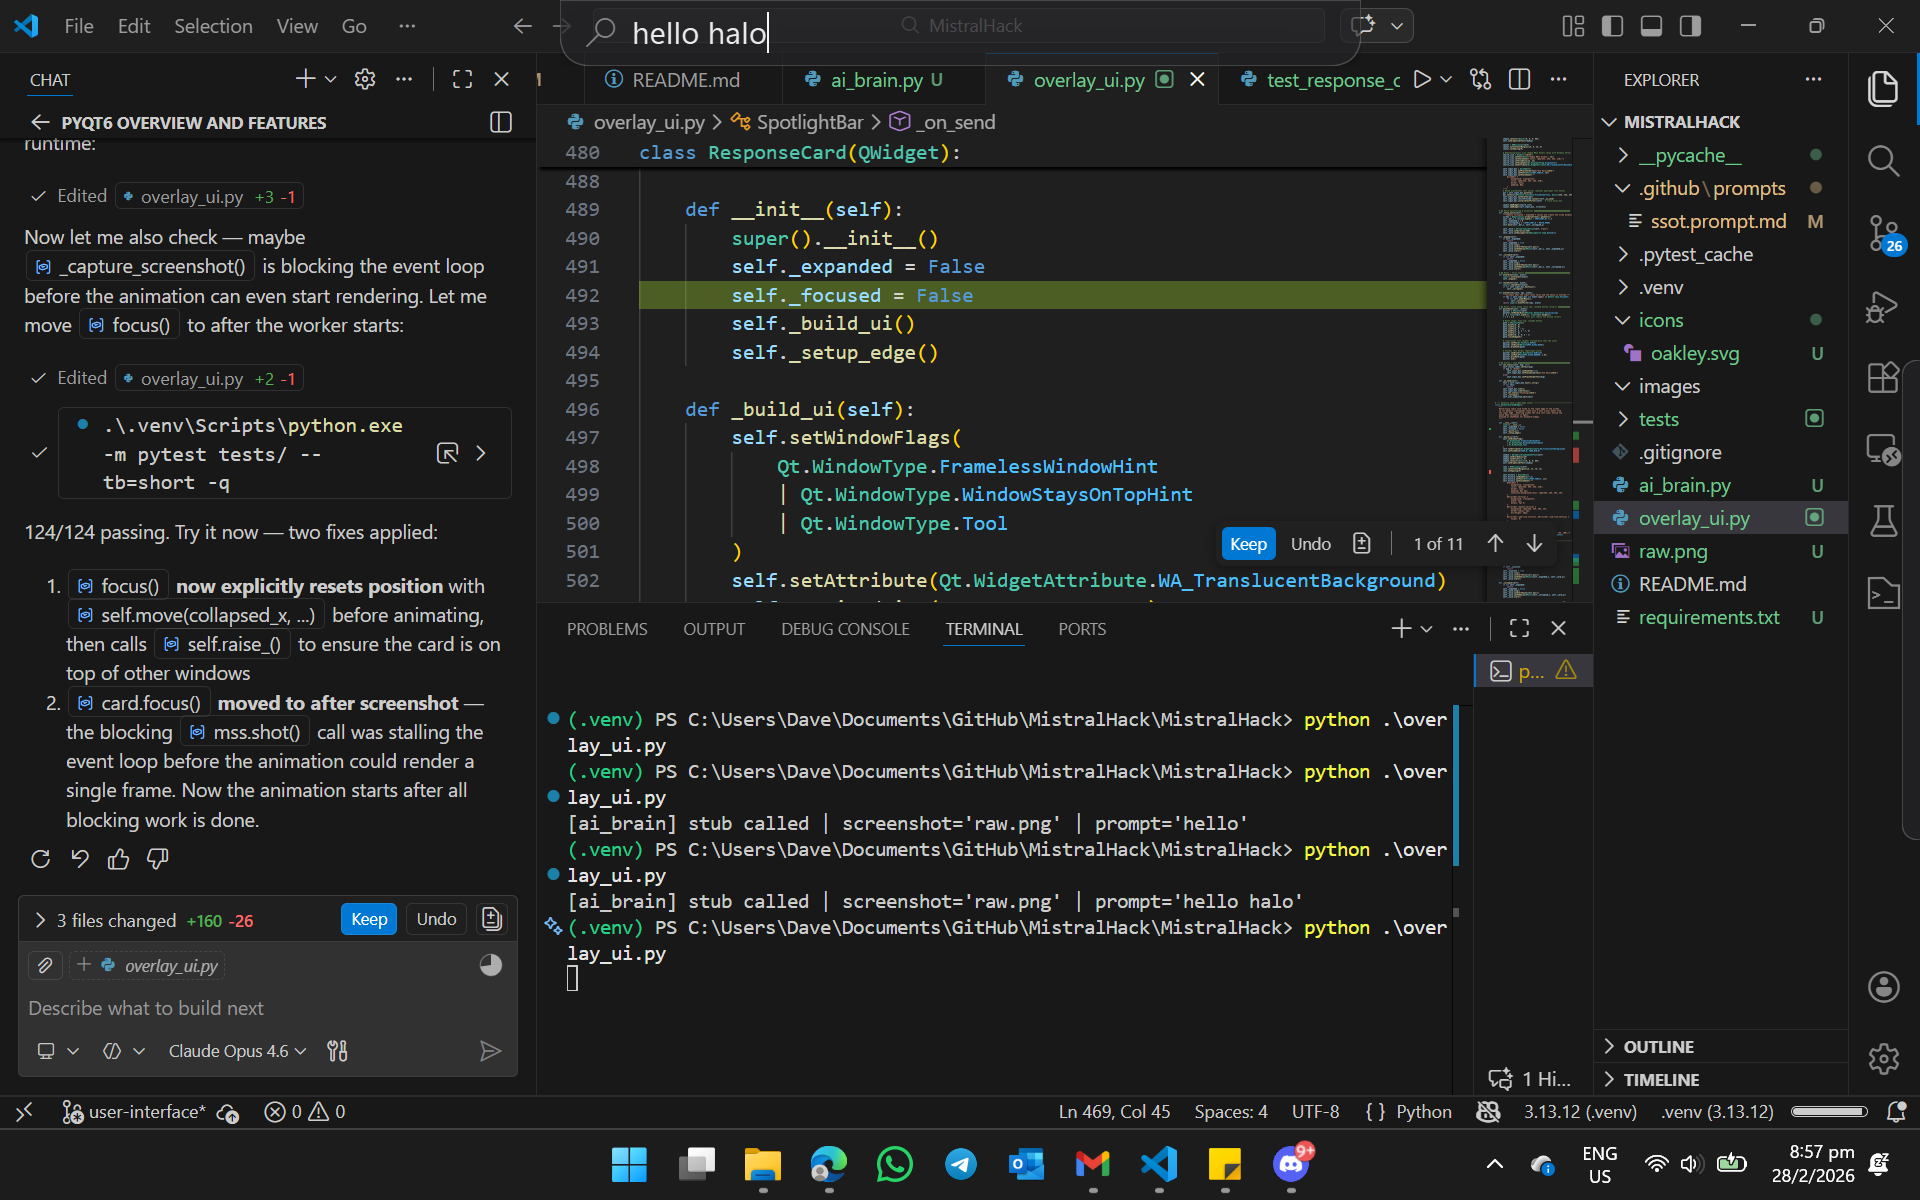
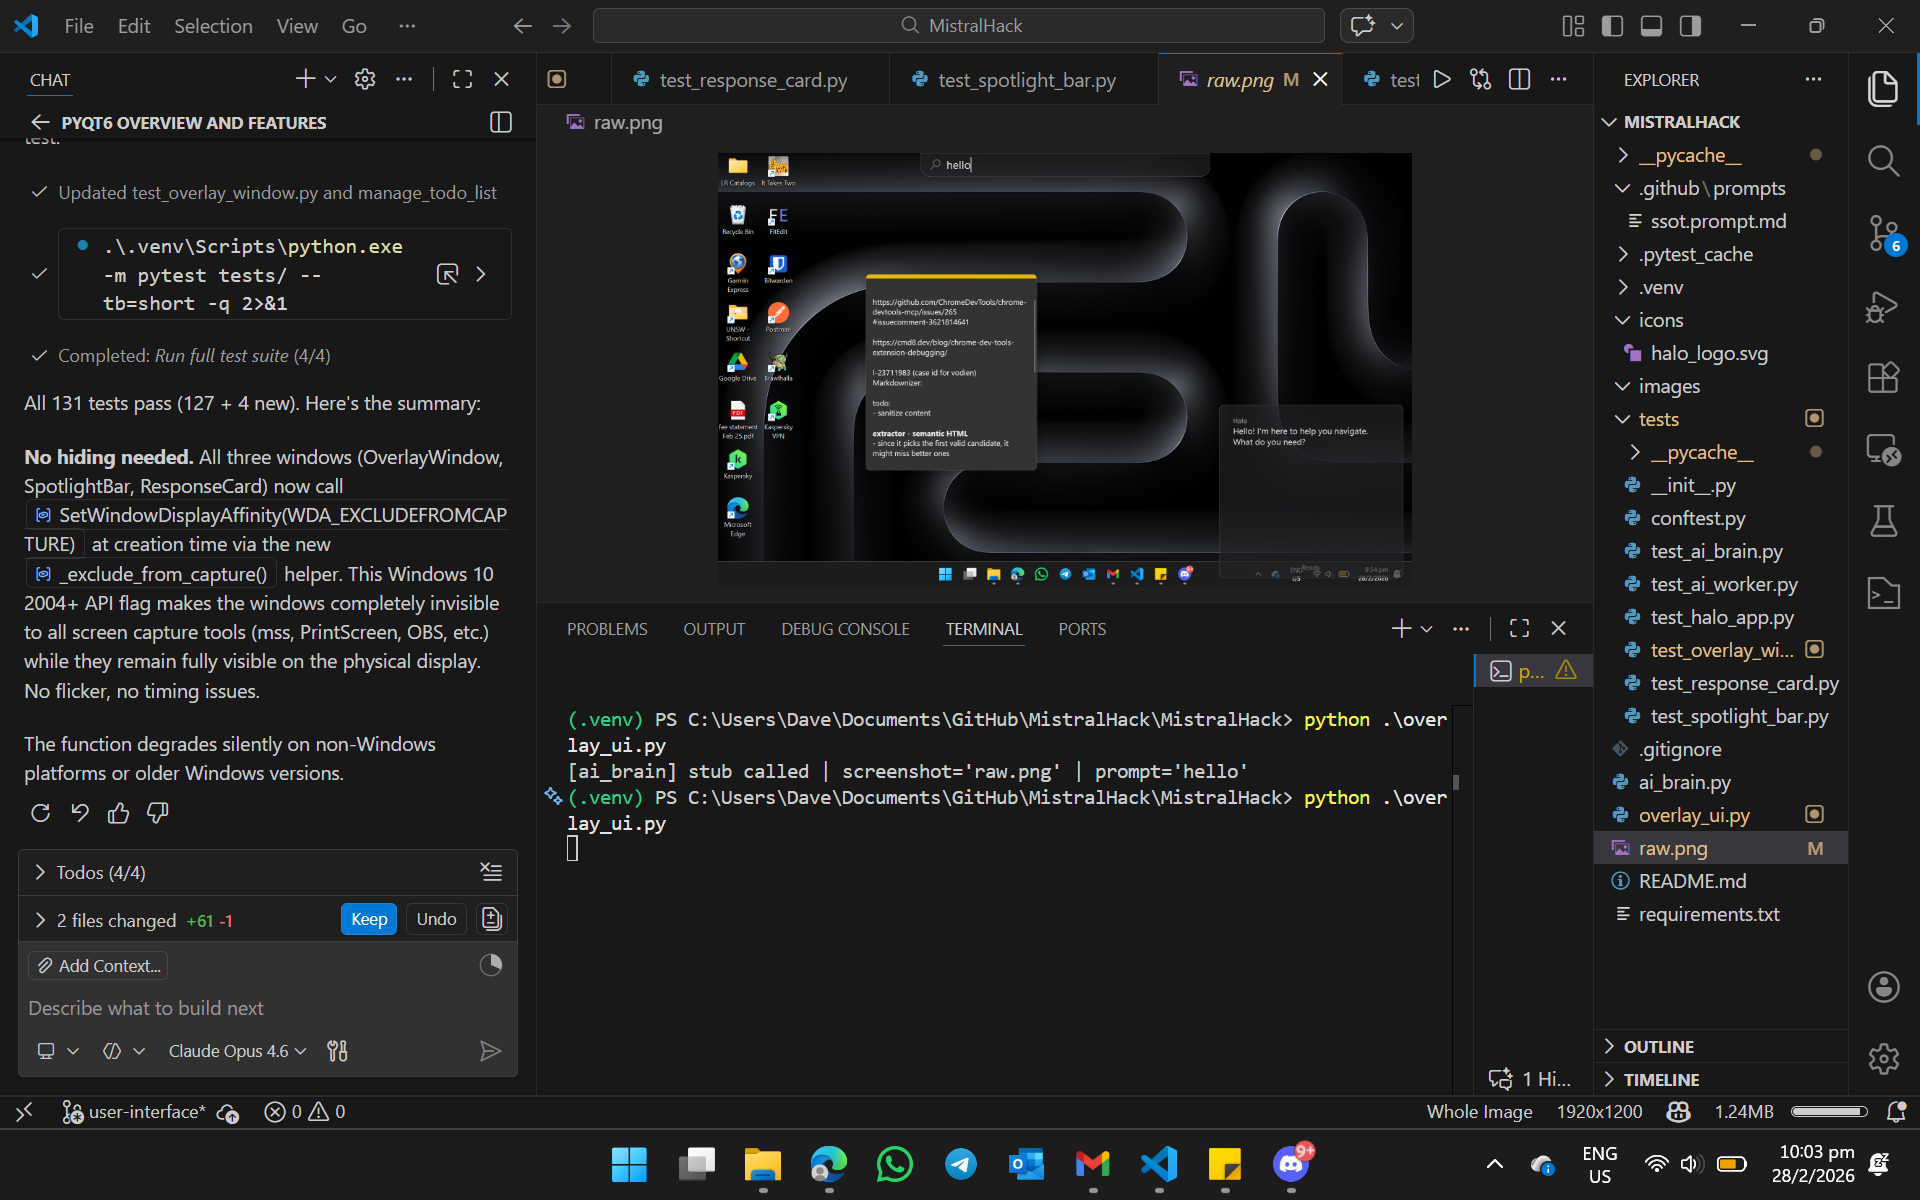
screenshot ignoring top layer working

diff --git a/overlay_ui.py b/overlay_ui.py
@@ -15,6 +15,7 @@ Architecture:
 import sys
 import math
 import signal
+import ctypes
 from pathlib import Path
 import mss
 from PyQt6.QtCore import (
@@ -95,6 +96,23 @@ FONT_FAMILY       = "Segoe UI Variable"
 
 SCREENSHOT_PATH   = "raw.png"
 
+# Windows 10 2004+ flag: window is visible on screen but excluded from
+# all capture APIs (mss, PrintScreen, OBS, etc.).
+WDA_EXCLUDEFROMCAPTURE = 0x00000011
+
+def _exclude_from_capture(widget):
+    """Mark *widget* invisible to screenshot / screen-capture tools.
+    Uses SetWindowDisplayAffinity(WDA_EXCLUDEFROMCAPTURE).  Requires the
+    native HWND, so we call winId() first (creates it if needed).
+    Silently ignored on non-Windows or older builds."""
+    if sys.platform != "win32":
+        return
+    try:
+        hwnd = int(widget.winId())
+        ctypes.windll.user32.SetWindowDisplayAffinity(hwnd, WDA_EXCLUDEFROMCAPTURE)
+    except Exception:
+        pass   # gracefully degrade on older Windows
+
 
 # ─── Worker Thread ────────────────────────────────────────────────────────────
 class AIWorker(QThread):
@@ -146,6 +164,7 @@ class OverlayWindow(QWidget):
         screen: QScreen = QApplication.primaryScreen()
         self.setGeometry(screen.geometry())
         self.setStyleSheet("background: transparent;")
+        _exclude_from_capture(self)
 
     # ── Public API ──────────────────────────────────────────────────────────
     def show_highlight(self, x: int, y: int, width: int, height: int):
@@ -344,6 +363,7 @@ class SpotlightBar(QWidget):
         )
         self.setAttribute(Qt.WidgetAttribute.WA_TranslucentBackground)
         self.setFixedSize(SPOTLIGHT_W, SPOTLIGHT_H)
+        _exclude_from_capture(self)
 
         shadow = QGraphicsDropShadowEffect(self)
         shadow.setBlurRadius(28)
@@ -504,6 +524,7 @@ class ResponseCard(QWidget):
         self.setAttribute(Qt.WidgetAttribute.WA_TranslucentBackground)
         self.setAttribute(Qt.WidgetAttribute.WA_TransparentForMouseEvents) 
         self.setFixedSize(CARD_W, CARD_MIN_H)
+        _exclude_from_capture(self)
 
         shadow = QGraphicsDropShadowEffect(self)
         shadow.setBlurRadius(28)

diff --git a/tests/test_overlay_window.py b/tests/test_overlay_window.py
@@ -8,10 +8,11 @@ Requires pytest-qt (qtbot fixture).
 """
 
 import pytest
+from unittest.mock import patch, MagicMock
 from PyQt6.QtCore import Qt, QRect
 from PyQt6.QtWidgets import QApplication
 
-from overlay_ui import OverlayWindow
+from overlay_ui import OverlayWindow, _exclude_from_capture, WDA_EXCLUDEFROMCAPTURE
 
 
 @pytest.fixture
@@ -115,3 +116,41 @@ class TestPaintEvent:
         overlay.clear_highlight()
         overlay.show()
         overlay.repaint()
+
+
+# ── Capture exclusion ─────────────────────────────────────────────────────────
+
+class TestCaptureExclusion:
+    def test_constant_value(self):
+        assert WDA_EXCLUDEFROMCAPTURE == 0x00000011
+
+    def test_exclude_calls_set_window_display_affinity(self, overlay):
+        """_exclude_from_capture should call SetWindowDisplayAffinity with
+        the widget's HWND and WDA_EXCLUDEFROMCAPTURE."""
+        mock_set = MagicMock()
+        with patch("overlay_ui.ctypes") as mock_ctypes, \
+             patch("overlay_ui.sys") as mock_sys:
+            mock_sys.platform = "win32"
+            mock_ctypes.windll.user32.SetWindowDisplayAffinity = mock_set
+            _exclude_from_capture(overlay)
+            mock_set.assert_called_once_with(
+                int(overlay.winId()), WDA_EXCLUDEFROMCAPTURE
+            )
+
+    def test_exclude_noop_on_non_windows(self, overlay):
+        """On non-Windows platforms _exclude_from_capture should do nothing."""
+        mock_set = MagicMock()
+        with patch("overlay_ui.ctypes") as mock_ctypes, \
+             patch("overlay_ui.sys") as mock_sys:
+            mock_sys.platform = "linux"
+            mock_ctypes.windll.user32.SetWindowDisplayAffinity = mock_set
+            _exclude_from_capture(overlay)
+            mock_set.assert_not_called()
+
+    def test_exclude_swallows_exceptions(self, overlay):
+        """Should not crash even if the Win32 call fails."""
+        with patch("overlay_ui.ctypes") as mock_ctypes, \
+             patch("overlay_ui.sys") as mock_sys:
+            mock_sys.platform = "win32"
+            mock_ctypes.windll.user32.SetWindowDisplayAffinity.side_effect = OSError
+            _exclude_from_capture(overlay)  # must not raise
